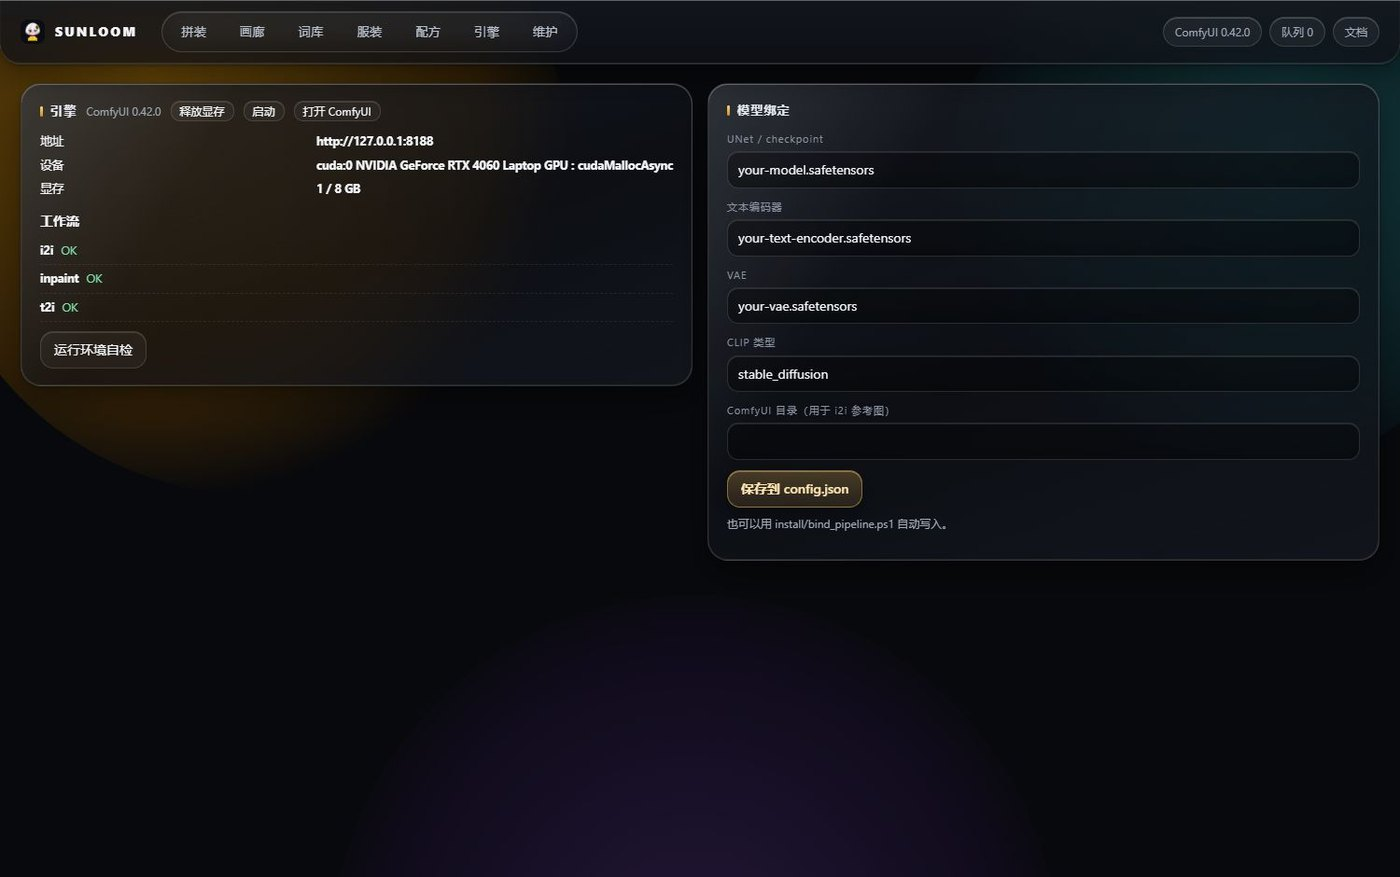
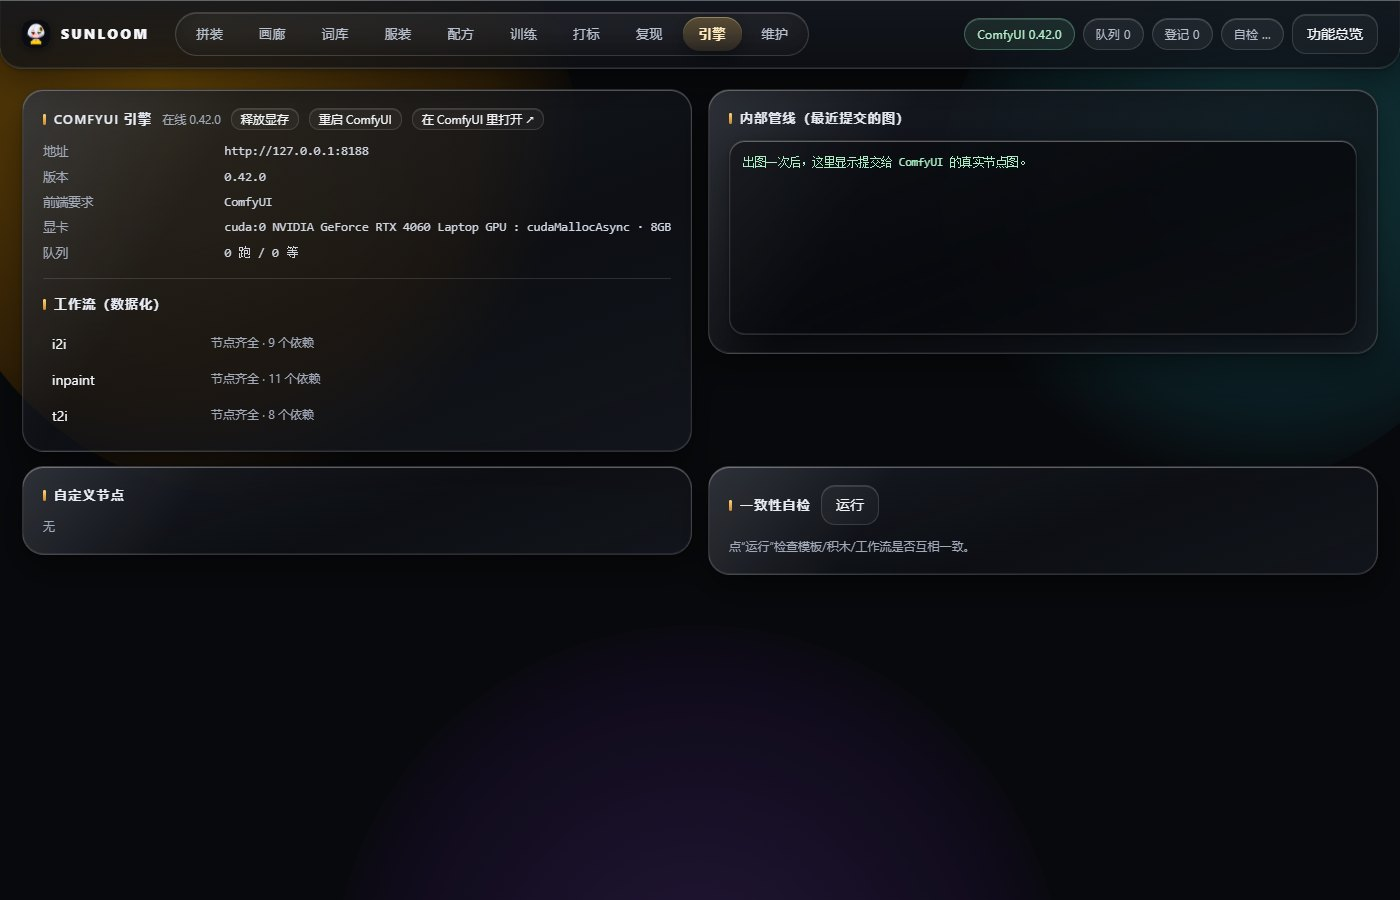
engine page parity; tab deep link; screenshots

diff --git a/station/static/app.js b/station/static/app.js
@@ -2403,6 +2403,11 @@ function bindUI() {
 
 boot().then(async () => {
   bindUI();
+  const tabParam = new URLSearchParams(location.search).get('tab');
+  if (tabParam) {
+    const tabBtn2 = document.querySelector('#tabs button[data-tab="' + tabParam + '"]');
+    if (tabBtn2) tabBtn2.click();
+  }
   if (location.search.includes('demo') && S.templates && S.templates.length) {
     applyTemplate(S.templates[0]);
     try {

diff --git a/station/server.py b/station/server.py
@@ -576,7 +576,18 @@ def api_config(req: ConfigReq):
 
 @app.get("/api/engine")
 def api_engine():
-    return gf.engine_info()
+    info = gf.engine_info()
+    info["comfy"] = info.get("url")
+    info["queue"] = cf.queue_state()
+    info["frontend"] = "ComfyUI"
+    info["system"] = {}
+    for w in info.get("workflows") or []:
+        try:
+            wf = gf.load(w["name"])
+            w["requires"] = wf.get("requires") or []
+        except Exception:
+            w["requires"] = []
+    return info
 
 
 @app.post("/api/comfy/free")

diff --git a/station/features3.py b/station/features3.py
@@ -47,7 +47,7 @@ def api_presets():
 
 @router.get("/api/last-graph")
 def api_last_graph():
-    return {"ok": False, "graph": None}
+    return None
 
 
 @router.get("/api/reliability")
